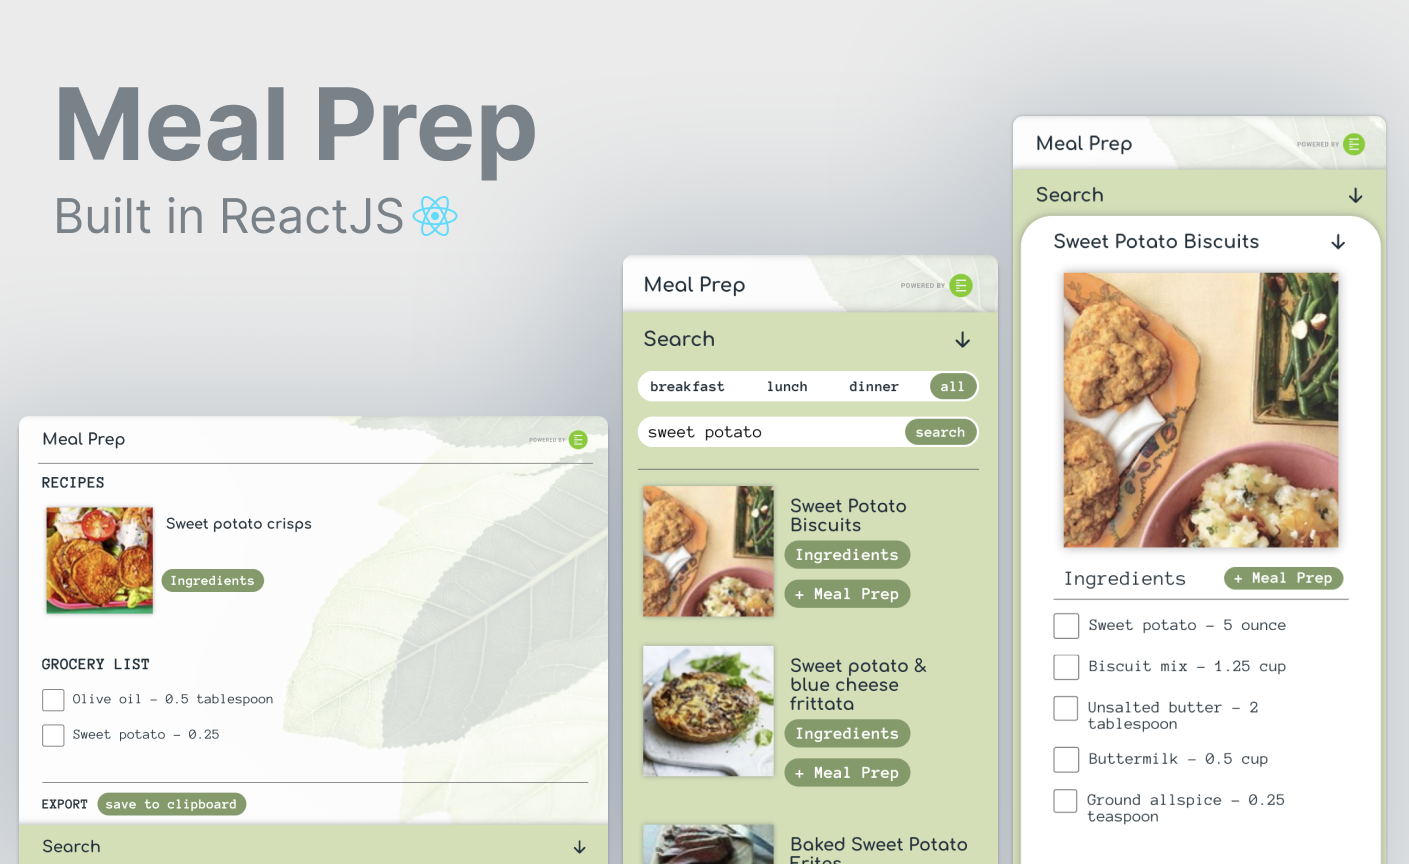
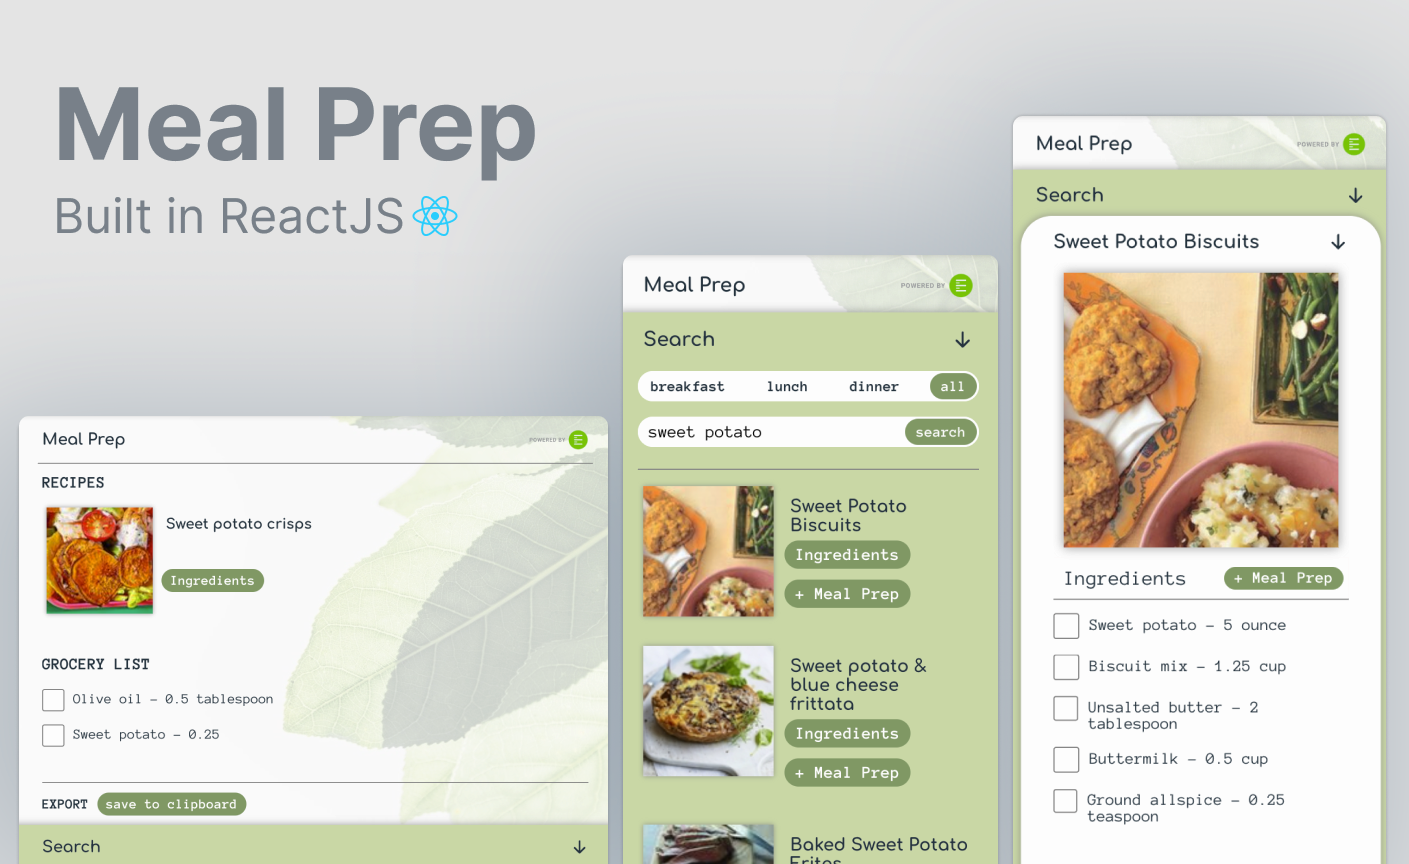
Added built by Mike Krueger line

diff --git a/src/Components/MealPrep/MealPrepMeals.js b/src/Components/MealPrep/MealPrepMeals.js
@@ -100,6 +100,12 @@ const MealPrepMeals = () => {
     return (
         <div className='MealPrepMeals'>
             <div className='MealPrepMealsContainer'>
+            <div className='BuiltBy'>Built by&nbsp;
+                <a href='https://mikekrueger.netlify.app/' target="_blank" rel="noopener noreferrer">
+                    Mike Krueger
+                </a>
+                &nbsp;in ReactJS
+            </div>
             {(mainRecipes.length<1?<div><h3>RECIPES</h3>Search for a tasty meal then click <b>"+ Meal Prep"</b> to add here!</div>:
             <div>
                 <h3>RECIPES</h3>
@@ -124,6 +130,7 @@ const MealPrepMeals = () => {
                     }}>{exportText}</span></b>
                     <br></br><br></br><div className='instructionText'>Save the recipes and ingredients above to your clipboard. After saving, you can "paste" the items to your notes.</div>
             </div>)}
+
             </div>
         </div>
     );

diff --git a/src/Components/MealPrep/MealPrepMain.js b/src/Components/MealPrep/MealPrepMain.js
@@ -11,7 +11,7 @@ const MealPrepMain = () => {
             <div className='MealPrepMain'>
                 <div className='MealPrepHeader'>
                     <h1>Meal Prep</h1>
-                    <a href='https://www.edamam.com/' target="_blank" rel="noreferrer">
+                    <a href='https://www.edamam.com/' target="_blank" rel="noopener noreferrer">
                         <img className="Edamam" src={EdamamBadge} alt='Powered by Edamam' />
                     </a>
                 </div>

diff --git a/src/Components/MealPrep/MealPrepMeals.css b/src/Components/MealPrep/MealPrepMeals.css
@@ -8,7 +8,7 @@
 
 .MealPrepMealsContainer{
     padding-bottom: 100px;
-    padding-top: 15px;
+    padding-top: 5px;
     font-size: medium;
 
 }
@@ -24,10 +24,12 @@
 }
 
 .instructionText{
-    font-style: italic;
     margin-left: 5px;
 }
 
+.BuiltBy{
+    font-size: 12px;
+}
 
 
 

diff --git a/src/Components/MealPrep/MealPrepMain.css b/src/Components/MealPrep/MealPrepMain.css
@@ -33,6 +33,8 @@ img.Edamam{
     z-index: -1;
 }
 
+
+
 @media only screen and (min-width: 700px){
     .MealPrepContainer{
         left: 0;
